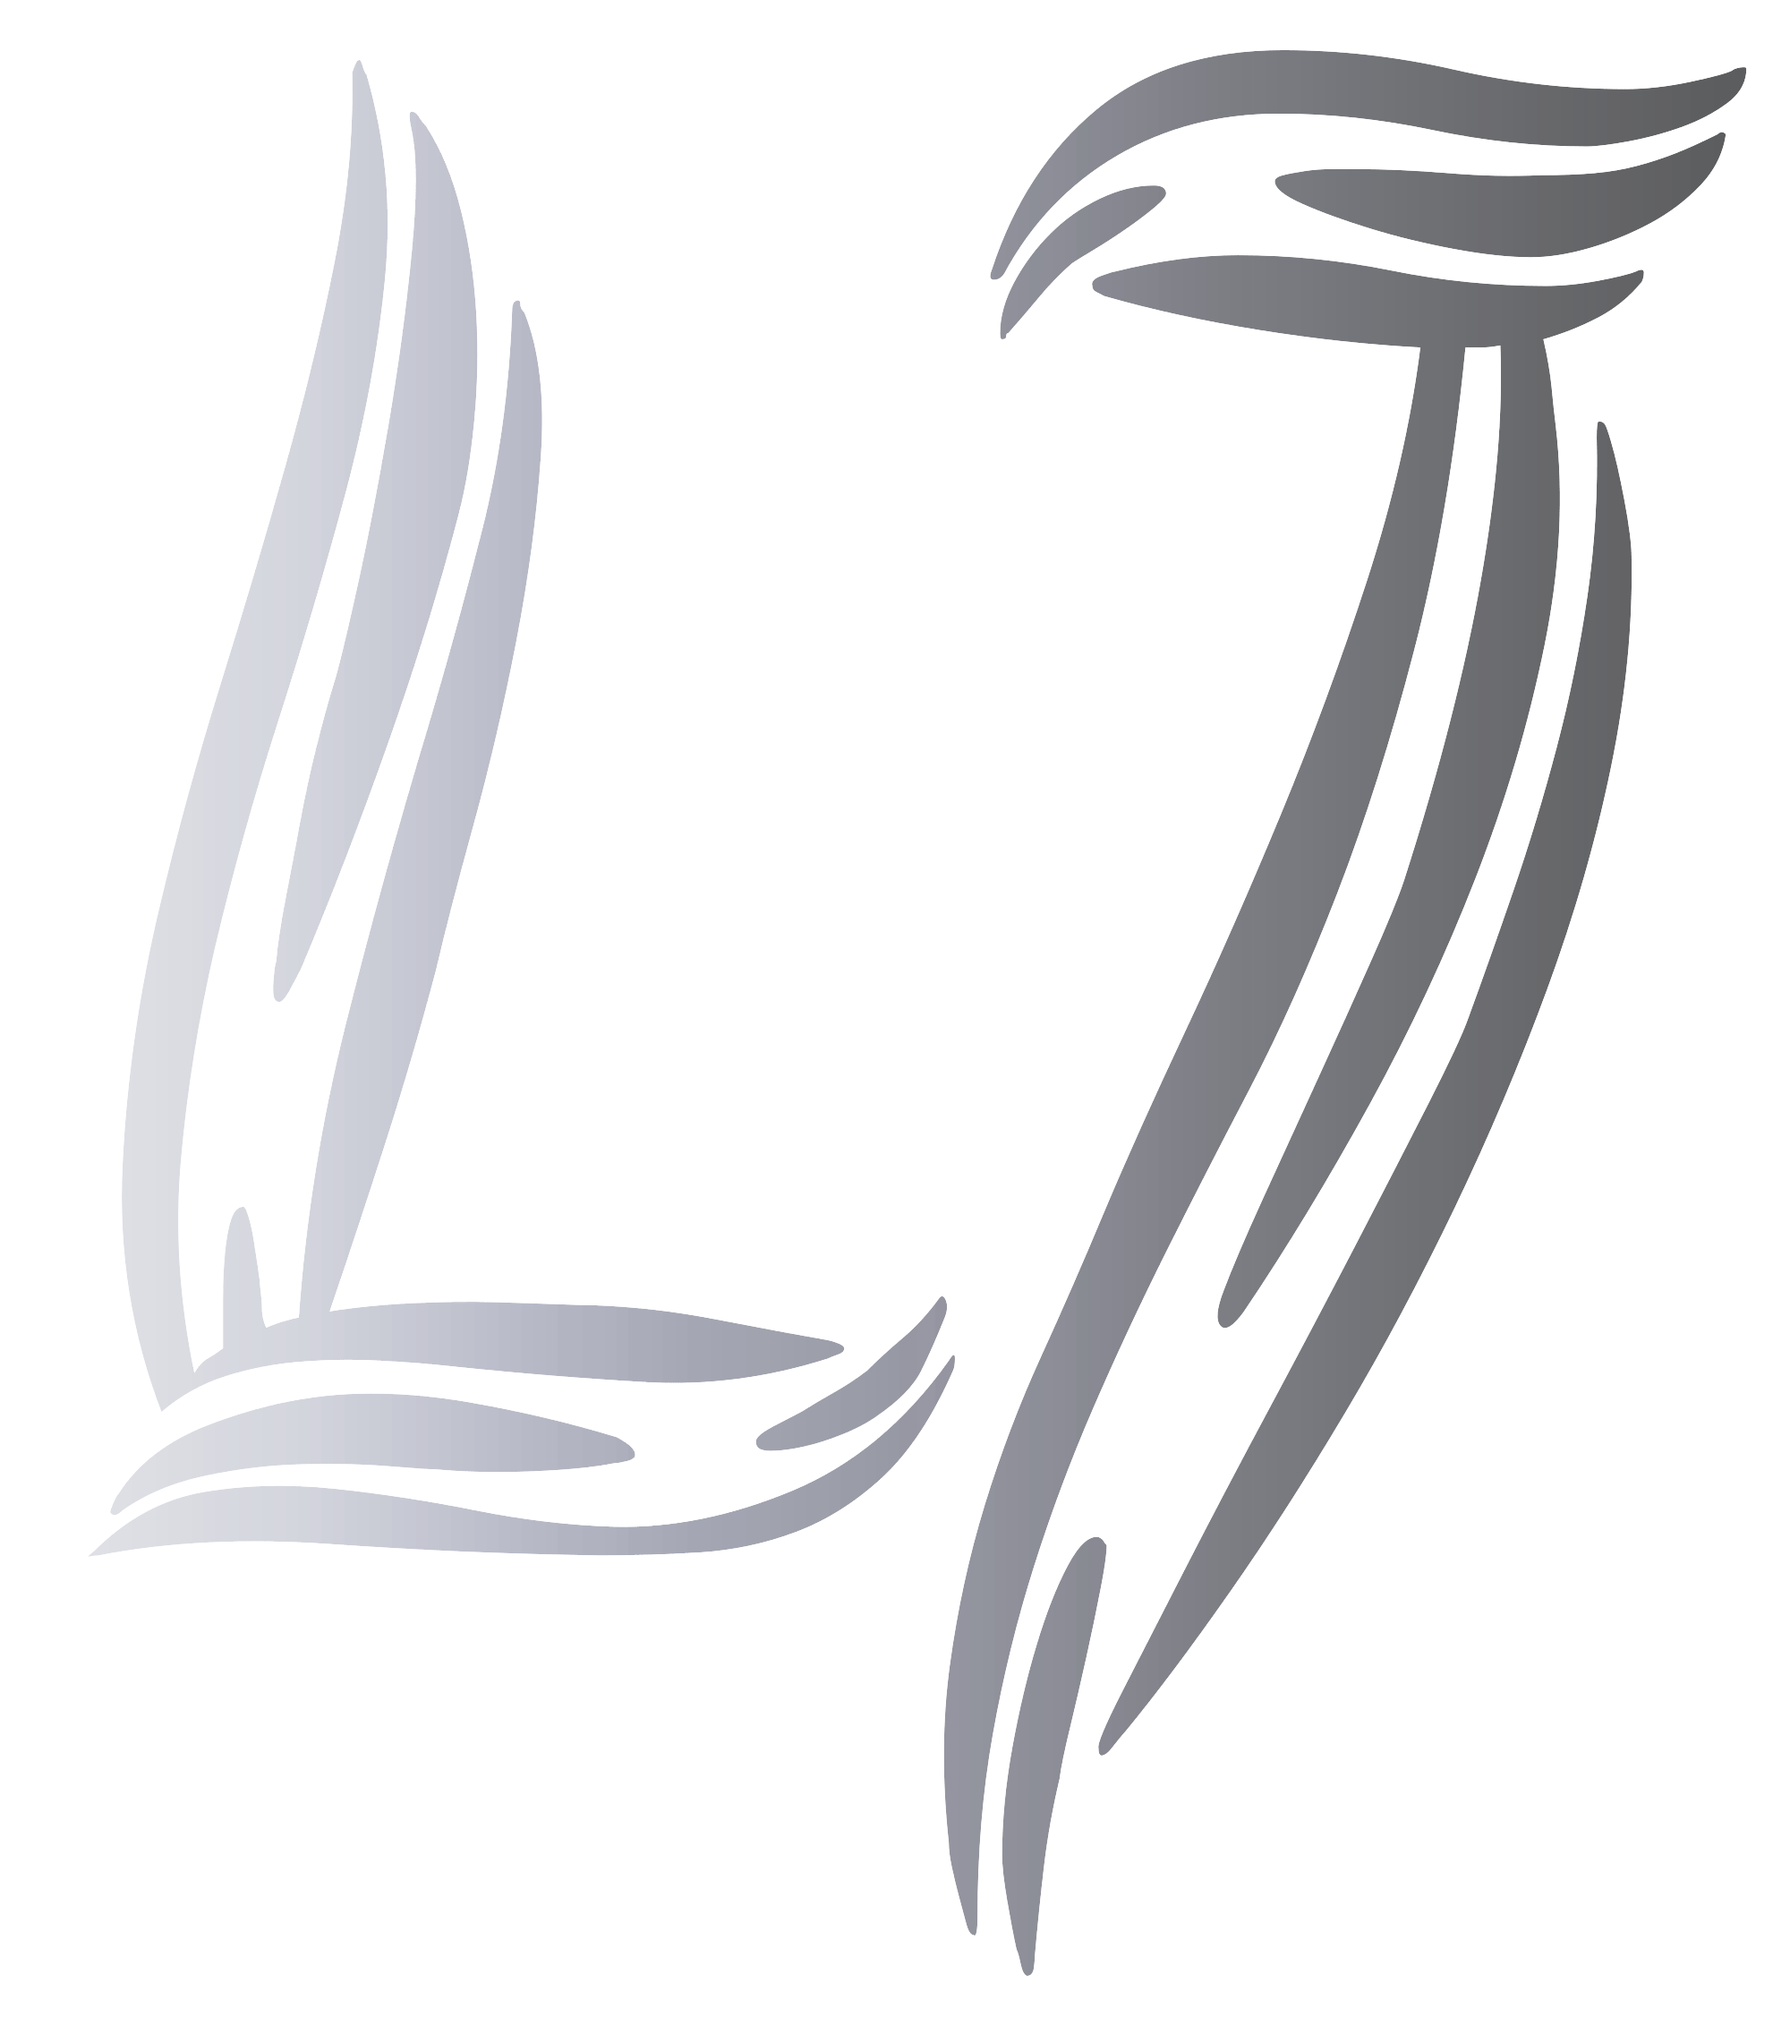
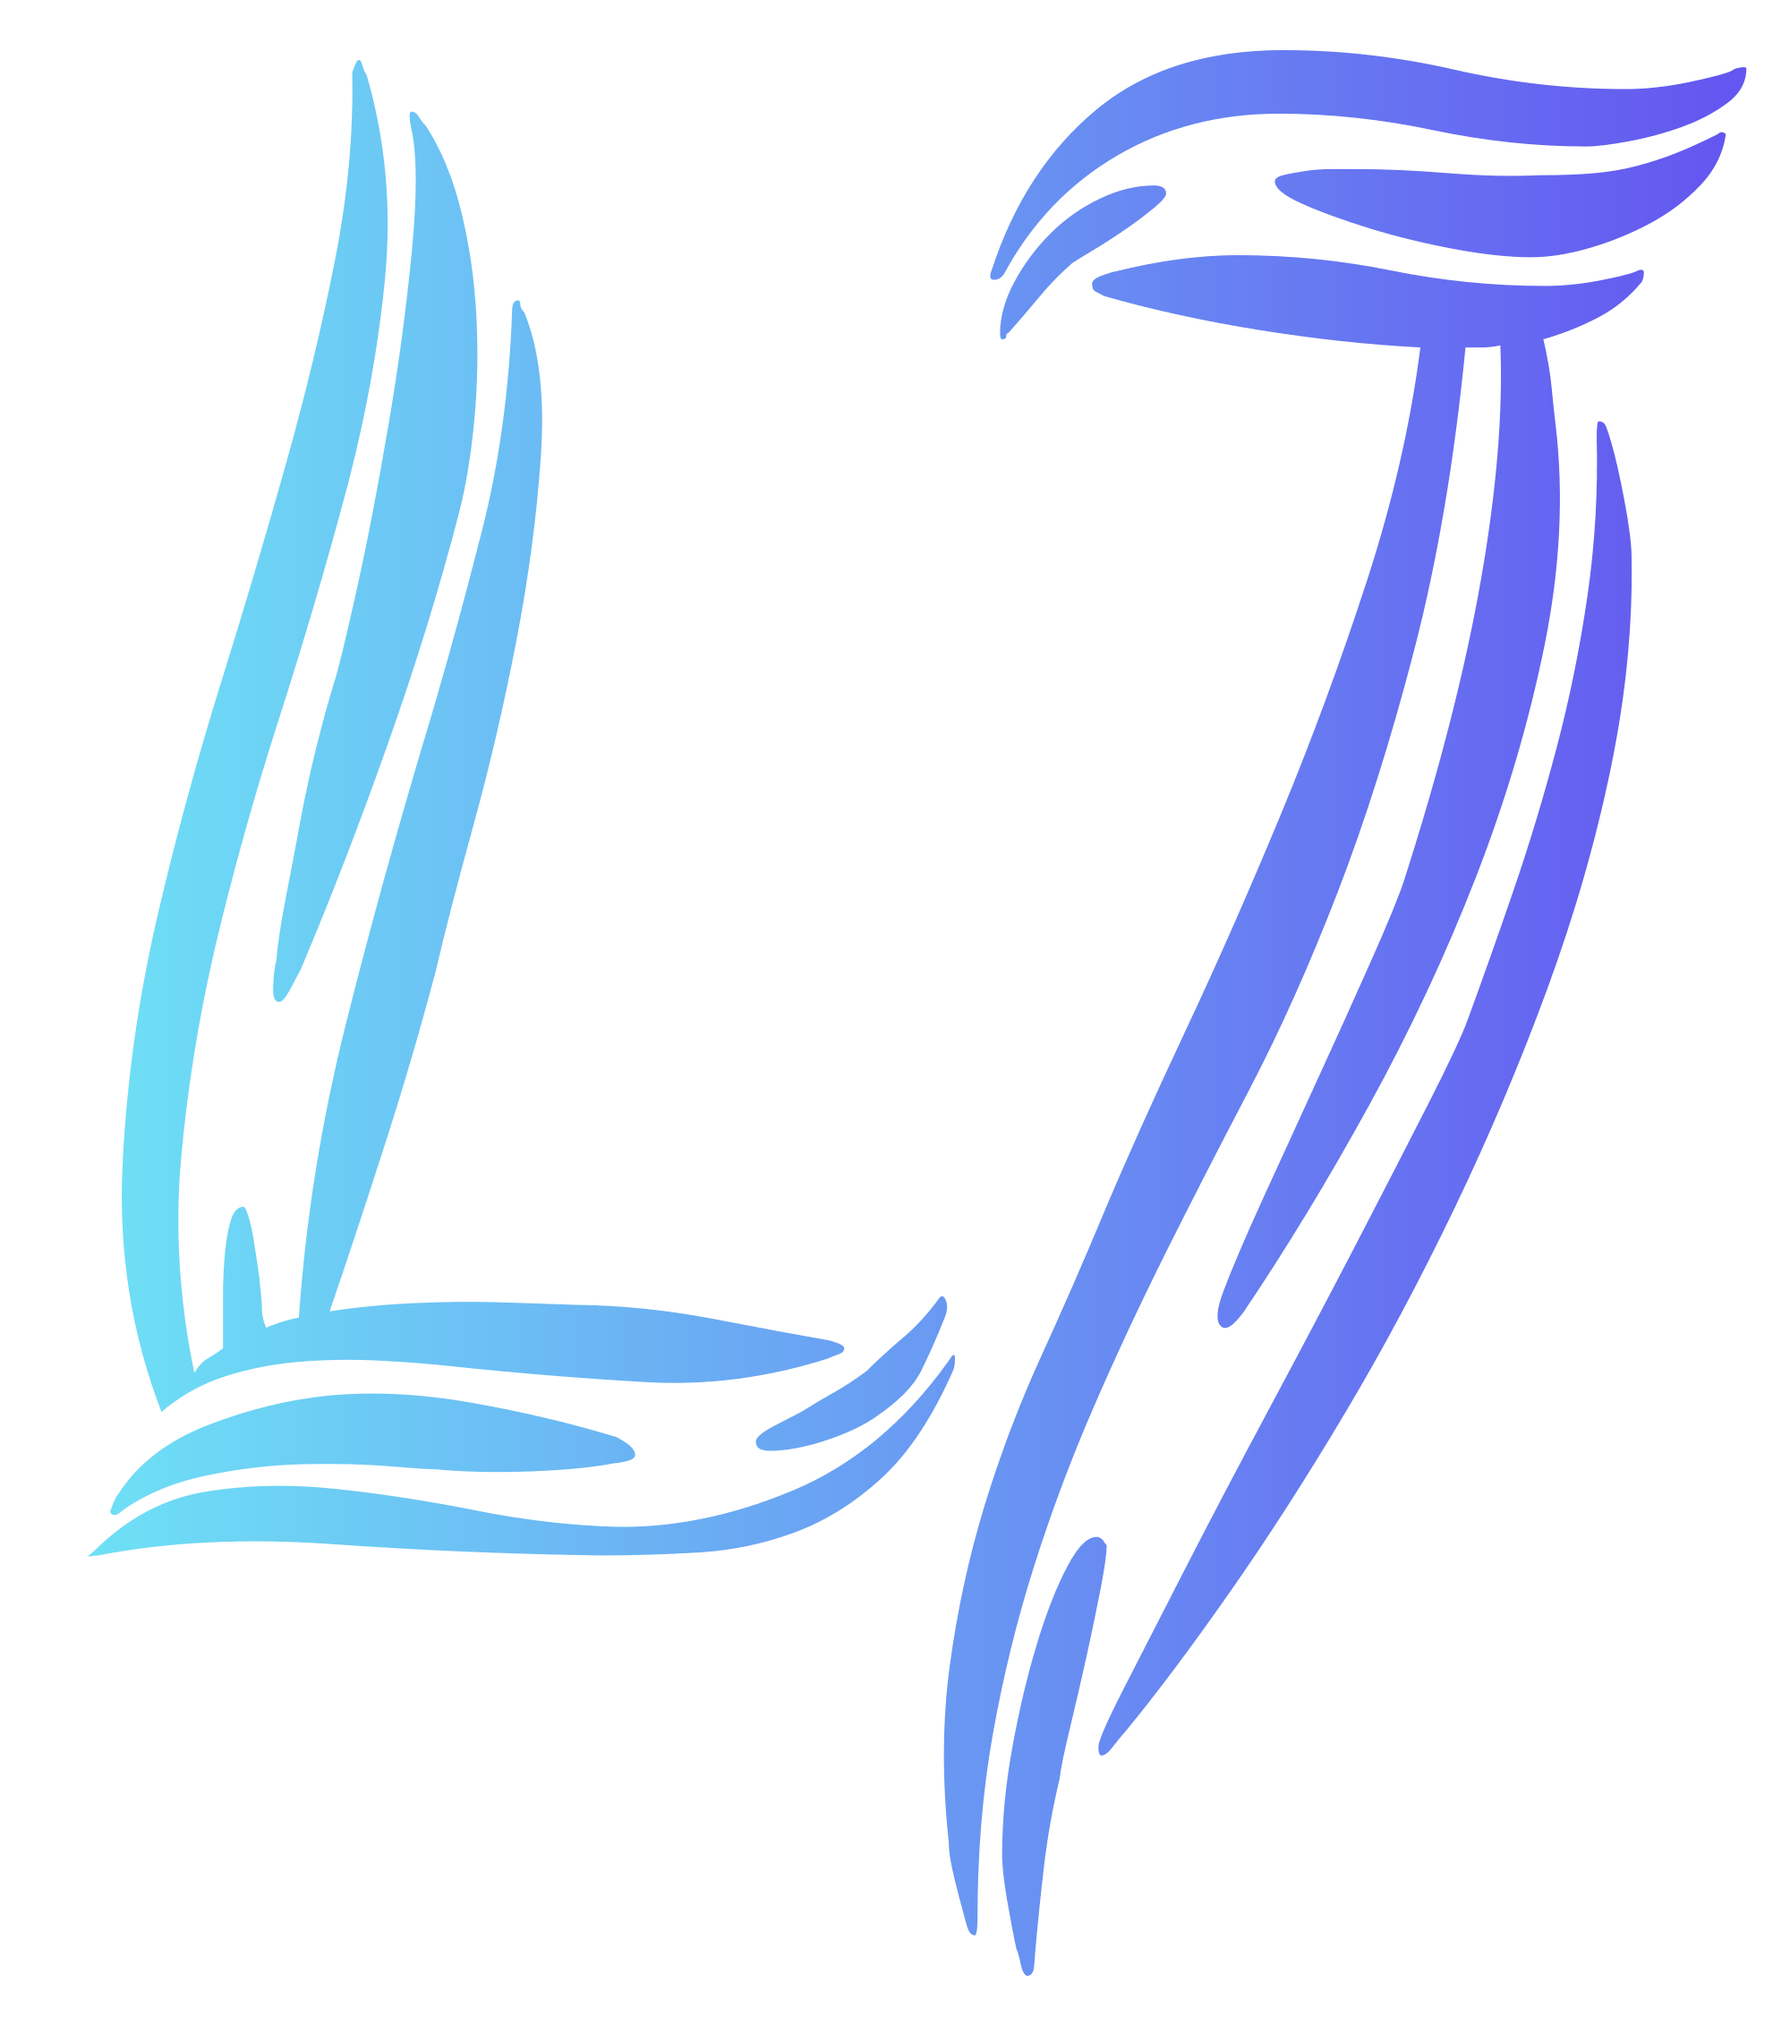
Add and improve background image styling

Changed region(s): [[0.527, 0.0, 0.992, 0.9898], [0.062, 0.0309, 0.527, 0.7733]]

diff --git a/src/App.module.css b/src/App.module.css
@@ -16,15 +16,15 @@ body {
   color: #333;
   background: linear-gradient(
     180deg,
-    #ffffff 0%,
-    #f7f7f7 12%,
-    #f0f0f0 24%,
-    #e8e8e8 36%,
-    #e0e0e0 48%,
-    #d8d8d8 60%,
-    #d0d0d0 72%,
-    #c8c8c8 84%,
-    #c0c0c0 100%
+    #f8f8f8 0%,
+    #f0f0f0 12%,
+    #e8e8e8 24%,
+    #e0e0e0 36%,
+    #d8d8d8 48%,
+    #d0d0d0 60%,
+    #c8c8c8 72%,
+    #c0c0c0 84%,
+    #b8b8b8 100%
   );
 }
 
@@ -72,11 +72,11 @@ code {
   left: 0;
   right: 0;
   bottom: 0;
-  background-image: url('../src/assets/navLogo.png');
+  background-image: url('../src/assets/imgBg.png');
   background-size: contain;
   background-position: center;
   background-repeat: no-repeat;
-  opacity: 0.05;
+  opacity: 0.15;
   z-index: 0;
 }
 

diff --git a/src/components/Footer.js b/src/components/Footer.js
@@ -15,6 +15,7 @@ import {
 import { faFilePdf } from '@fortawesome/free-regular-svg-icons';
 import styles from './styles/Footer.module.css';
 import ModalCv from './ModalCv';
+import appStyles from '../App.module.css';
 
 const Footer = () => {
   /* State to manage the visibility of the CV modal */
@@ -28,7 +29,7 @@ const Footer = () => {
 
   return (
     <footer className={`py-3 ${styles.footerBg}`}>
-      <Container fluid className="px-2">
+      <Container fluid className={`px-2 ${appStyles.cardBgImage}`}>
         <Row className="mx-auto">
           <Col sm={6} className="mb-sm-0">
             <h5 className={styles.footerLinkHeader}>Contact Details</h5>

diff --git a/src/components/Hero.js b/src/components/Hero.js
@@ -5,6 +5,7 @@ import styles from './styles/Hero.module.css';
 import { FontAwesomeIcon } from '@fortawesome/react-fontawesome';
 import { faDownload, faEnvelope } from '@fortawesome/free-solid-svg-icons';
 import ModalCv from './ModalCv';
+import appStyles from '../App.module.css';
 
 const Hero = () => {
   /* State to manage loading spinner for CV download */
@@ -27,7 +28,7 @@ const Hero = () => {
 
   return (
     <section id="hero" className="text-center py-4">
-      <Container>
+      <Container className={appStyles.cardBgImage}>
         <Row className="d-flex justify-content-center align-items-center mx-auto">
           <Col xs="auto">
             <img

diff --git a/src/components/Skills.js b/src/components/Skills.js
@@ -39,9 +39,7 @@ const Skills = () => {
   /* Renders each skill as a card with an icon and label */
   const renderSkill = (skill, index) => (
     <Col md={4} sm={6} xs={6} key={index} className="text-center mb-4">
-      <Card
-        className={`shadow py-2 ${styles.skillCard} ${appStyles.cardBgImage}`}
-      >
+      <Card className={`shadow py-2 ${styles.skillCard}`}>
         <Card.Body>
           <FontAwesomeIcon icon={skill.icon} size="3x" className="mb-3" />
           <Card.Title className={styles.skillLabel}>{skill.label}</Card.Title>

diff --git a/src/components/Portfolio.js b/src/components/Portfolio.js
@@ -111,7 +111,7 @@ const Portfolio = () => {
   /* Renders each project card with its title, description, and buttons for GitHub and Live Demo */
   const renderProject = (project, index) => (
     <Col md={6} key={index} className="mb-4">
-      <Card className={`h-100 ${styles.projectCard} ${appStyles.cardBgImage}`}>
+      <Card className={`h-100 ${styles.projectCard}`}>
         <Card.Body className="d-flex flex-column">
           <Card.Title className="mb-3">{project.title}</Card.Title>
           <Card.Text className={styles.description}>

diff --git a/src/components/WorkExperience.js b/src/components/WorkExperience.js
@@ -43,9 +43,7 @@ const WorkExperience = () => {
   /* Renders each work experience as a card with title, workplace, duration, and description */
   const renderExperience = (experience, index) => (
     <Col md={6} className="mb-4" key={index}>
-      <Card
-        className={`h-100 ${styles.experienceCard} ${appStyles.cardBgImage}`}
-      >
+      <Card className={`h-100 ${styles.experienceCard}`}>
         <Card.Body>
           <Card.Title className="d-flex align-items-center mb-3">
             <FontAwesomeIcon

diff --git a/src/components/Education.js b/src/components/Education.js
@@ -45,9 +45,7 @@ const Education = () => {
   /* Renders each education item in a card with title, school, duration, and optional credential */
   const renderEducationItem = (edu, index) => (
     <Col md={6} className="mb-4" key={index}>
-      <Card
-        className={`h-100 ${styles.educationCard} ${appStyles.cardBgImage}`}
-      >
+      <Card className={`h-100 ${styles.educationCard}`}>
         <Card.Body>
           <Card.Title className="d-flex align-items-center mb-3">
             <FontAwesomeIcon

diff --git a/src/components/AboutMe.js b/src/components/AboutMe.js
@@ -49,9 +49,7 @@ const AboutMe = () => {
         </div>
         <Row className="justify-content-center mt-4 mx-auto">
           <Col md={8}>
-            <Card
-              className={`p-3 shadow ${styles.aboutMeCard} ${appStyles.cardBgImage}`}
-            >
+            <Card className={`p-3 shadow ${styles.aboutMeCard}`}>
               <Card.Body>
                 <Card.Text className={styles.cardText}>
                   I'm passionate about technology and eager to apply my new web

diff --git a/src/components/NavBar.js b/src/components/NavBar.js
@@ -21,7 +21,7 @@ import { faFilePdf } from '@fortawesome/free-regular-svg-icons';
 import useClickOutsideToggle from '../hooks/OutsideClickHandler';
 import styles from './styles/NavBar.module.css';
 import ModalCv from './ModalCv';
-import navLogo from '../assets/navLogo.png';
+import navLogo from '../assets/imgBg.png';
 
 const NavBar = () => {
   /* Custom hook to handle the navbar's expanded state and detect clicks outside */
